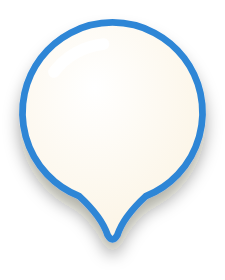
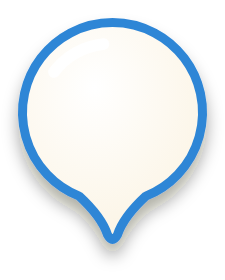
bản 256: khung bong bóng viền 1 (255: 0,75)
Claude-Session: https://claude.ai/code/session_015r7QjvgWpavV7UHFjkKbAg

Changed region(s): [[0.0622, 0.0571, 0.9333, 0.8857]]

diff --git a/src/tools/bong/lam.py b/src/tools/bong/lam.py
@@ -4,11 +4,11 @@ import os
 from playwright.sync_api import sync_playwright
 OUT=os.path.join(os.path.dirname(os.path.abspath(__file__)),'..','..','godot','ui','img','bong')
 PATH='M3.7 9.29 A10 10 0 1 0 -3.7 9.29 Q-1.2 11.6 -0.55 13.6 Q0 14.6 0.55 13.6 Q1.2 11.6 3.7 9.29 Z'
-def khung(col):   # tròn r10 + đuôi tới y 14,6, viền 0,75 (bản 255; trước 1,5), nền kem, bóng đổ; khung -12,5..12,5 x -12,5..18,61
+def khung(col):   # tròn r10 + đuôi tới y 14,6, viền 1 (bản 256; 255: 0,75; trước 1,5), nền kem, bóng đổ; khung -12,5..12,5 x -12,5..18,61
     return f'''<svg xmlns="http://www.w3.org/2000/svg" viewBox="-12.5 -12.5 25 31.1111" width="225" height="280">
 <defs><radialGradient id="g" cx="40%" cy="30%" r="80%"><stop offset="0" stop-color="#ffffff"/><stop offset="1" stop-color="#fbf3e2"/></radialGradient>
 <filter id="s" x="-50%" y="-50%" width="200%" height="200%"><feDropShadow dx="0" dy="1.3" stdDeviation="0.9" flood-color="#1a1408" flood-opacity="0.35"/></filter></defs>
-<path d="{PATH}" fill="url(#g)" stroke="{col}" stroke-width=".75" stroke-linejoin="round" filter="url(#s)"/>
+<path d="{PATH}" fill="url(#g)" stroke="{col}" stroke-width="1" stroke-linejoin="round" filter="url(#s)"/>
 <path d="M-6.5 -4.5 A7.8 7.8 0 0 1 -1 -7.6" fill="none" stroke="#ffffff" stroke-width="1.3" stroke-linecap="round" opacity=".9"/></svg>'''
 def vong():   # vòng ô chín: elip 21 x 10,5 nét 2,2 vàng tươi + quầng sáng mềm; khung -24..24 x -13..13 đơn vị
     return '''<svg xmlns="http://www.w3.org/2000/svg" viewBox="-24 -13 48 26" width="432" height="234">
